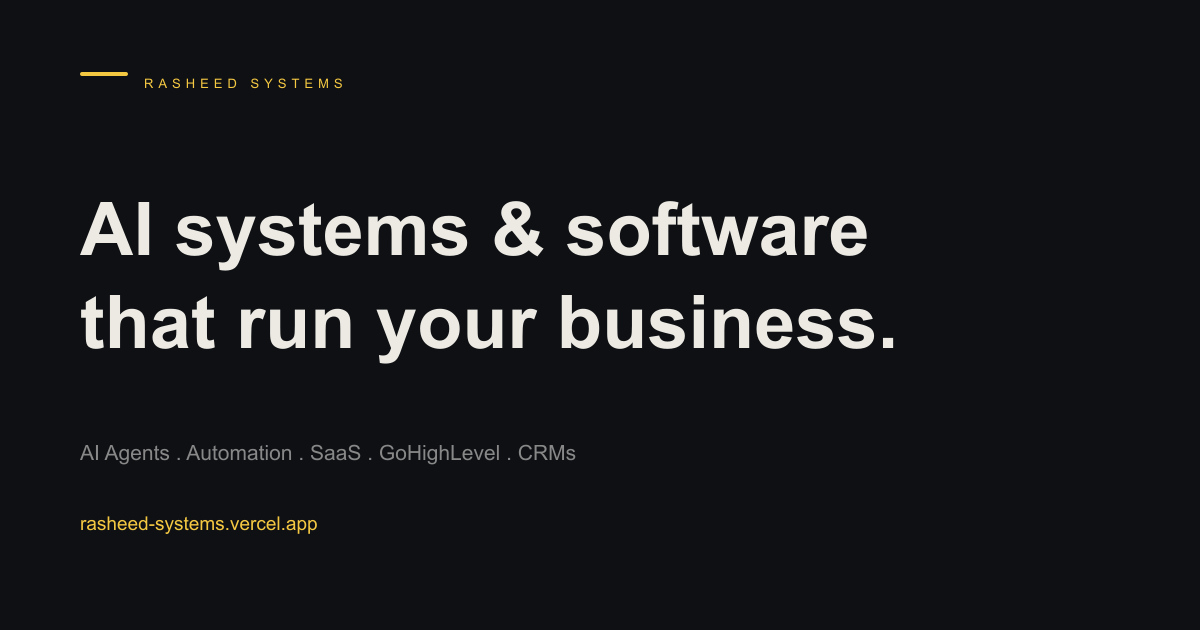
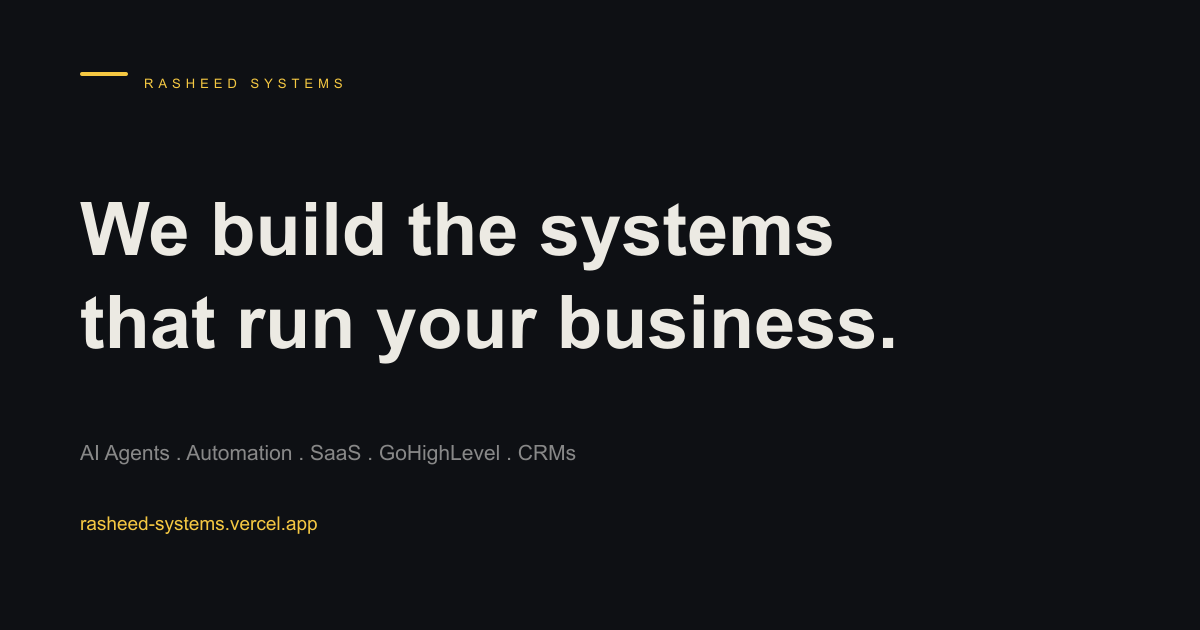
update: title and OG image to 'We build the systems that run your business.'

Changed region(s): [[0.0617, 0.3016, 0.74, 0.4222]]

diff --git a/app/layout.tsx b/app/layout.tsx
@@ -5,7 +5,7 @@ export const metadata: Metadata = {
   metadataBase: new URL('https://rasheed-systems.vercel.app'),
   title: {
     template: '%s — Rasheed Systems',
-    default: 'Rasheed Systems — AI systems & software that run your business',
+    default: 'Rasheed Systems — We build the systems that run your business.',
   },
   description: 'Rasheed Systems builds AI agents, automation, and custom software for companies in the US, UK, UAE, India, and Australia. Built by two brothers.',
   openGraph: {